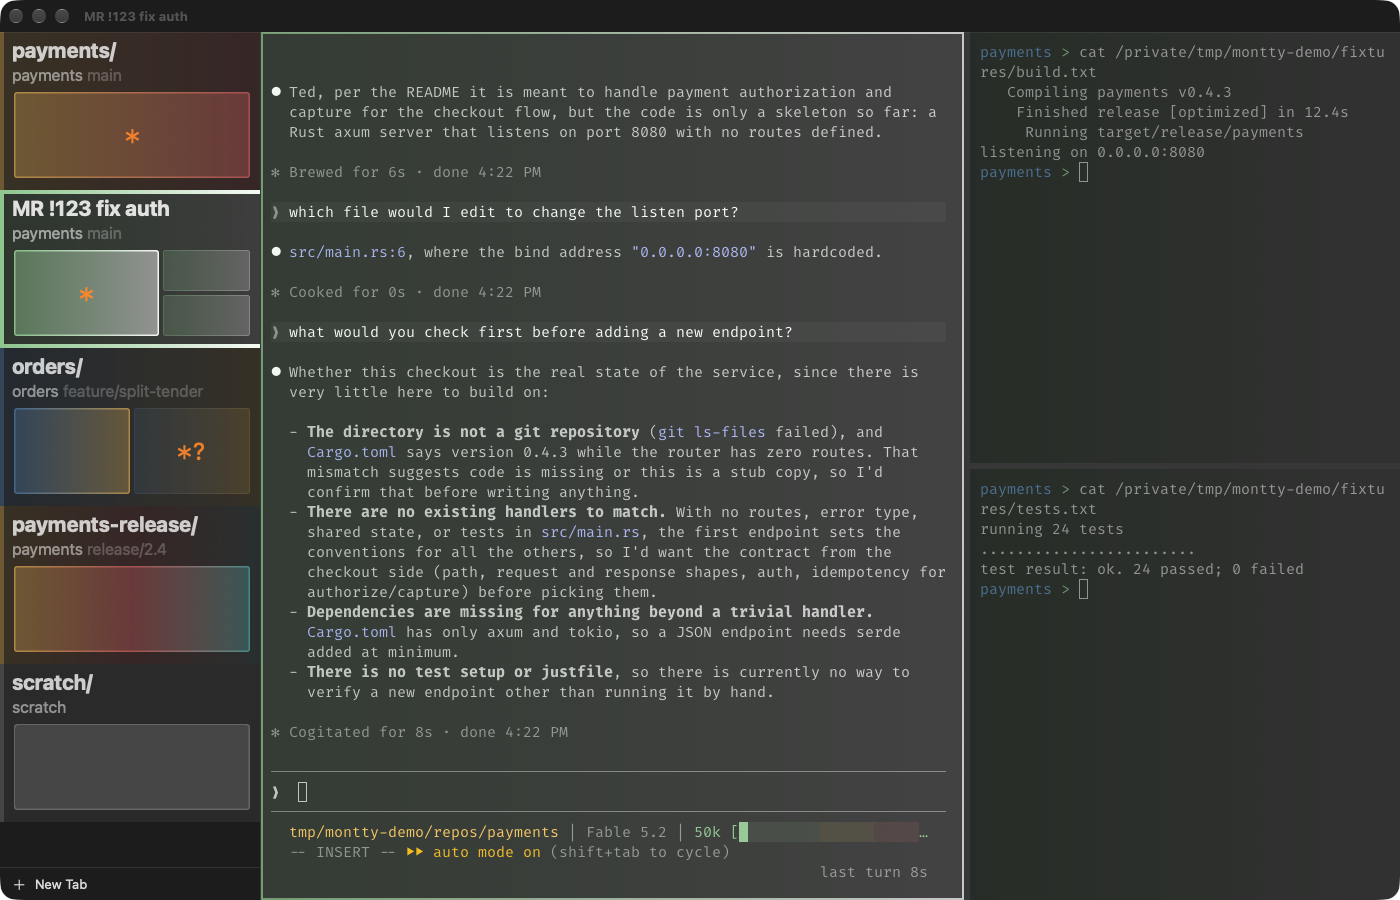
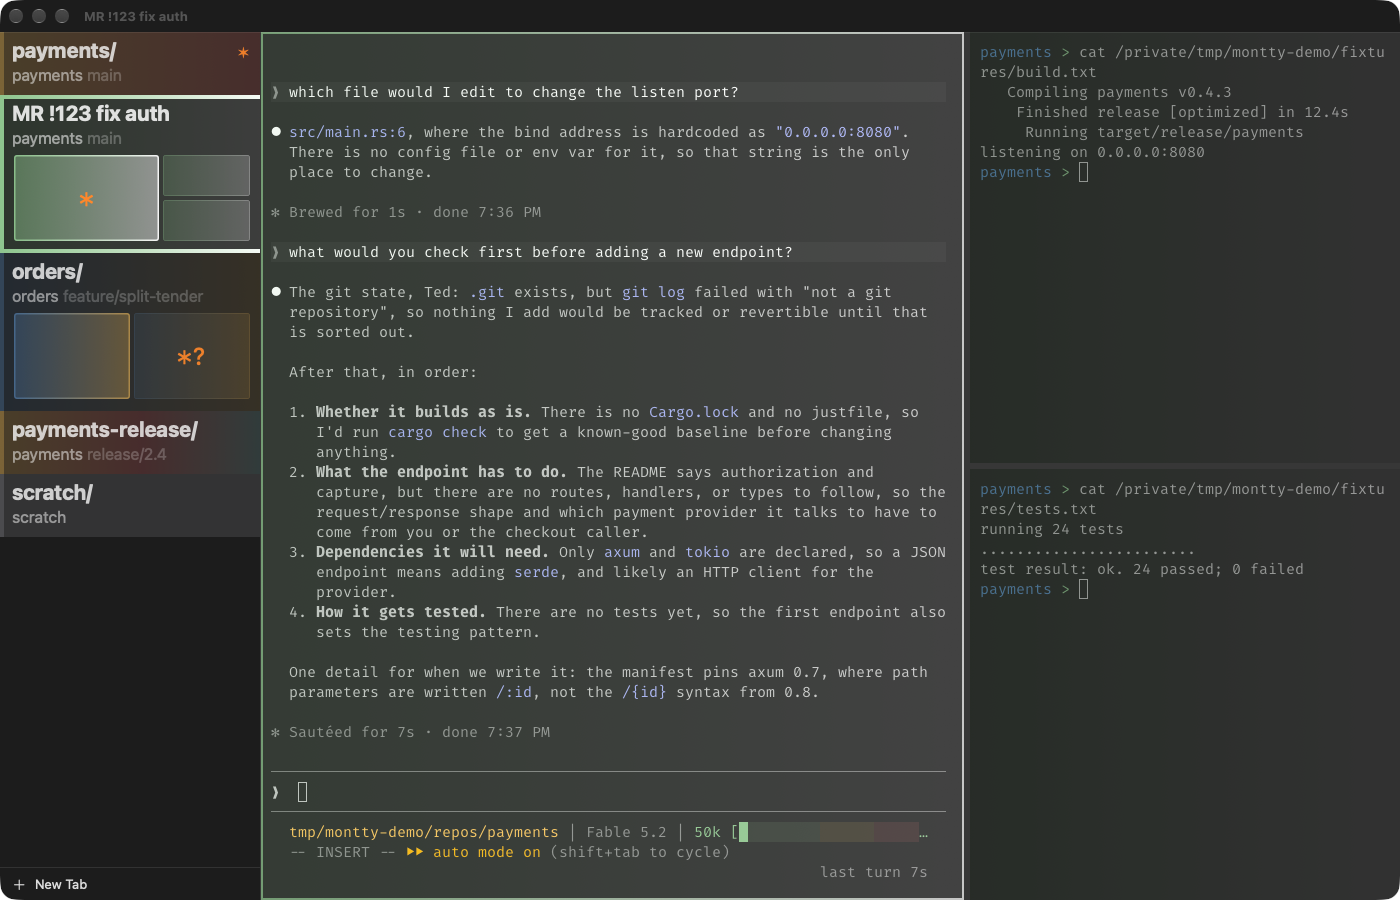
minimap-default-split Show a minimap only for split tabs by default on a fresh install, and reshoot the README screenshots to match

diff --git a/Sources/Persistence/SessionSnapshot.swift b/Sources/Persistence/SessionSnapshot.swift
@@ -9,7 +9,7 @@ struct SessionSnapshot: Codable {
     var version: Int = Self.currentVersion
     var surfaceTintEnabled: Bool = true
     var surfaceTintStrength: Double = SurfaceTintStrength.default
-    var minimapVisibility: MinimapVisibility = .always
+    var minimapVisibility: MinimapVisibility = .default
     var minimapHeight: Double = MinimapHeight.default
     var tabTintStrength: Double = TabTintStrength.default
     var windows: [WindowSnapshot] = []
@@ -24,7 +24,7 @@ struct SessionSnapshot: Codable {
     init(
         surfaceTintEnabled: Bool = true,
         surfaceTintStrength: Double = SurfaceTintStrength.default,
-        minimapVisibility: MinimapVisibility = .always,
+        minimapVisibility: MinimapVisibility = .default,
         minimapHeight: Double = MinimapHeight.default,
         tabTintStrength: Double = TabTintStrength.default,
         windows: [WindowSnapshot] = [],
@@ -61,8 +61,10 @@ struct SessionSnapshot: Codable {
             Bool.self, forKey: .surfaceTintEnabled) ?? true
         surfaceTintStrength = try container.decodeIfPresent(
             Double.self, forKey: .surfaceTintStrength) ?? SurfaceTintStrength.default
-        // A value this montty cannot read, such as a condition a later one
-        // added, falls back to the default rather than failing the session.
+        // A session saved before the setting existed showed every minimap,
+        // so it keeps doing so. A value this montty cannot read, such as a
+        // condition a later one added, gets the same rather than failing the
+        // session.
         minimapVisibility = (try? container.decodeIfPresent(
             MinimapVisibility.self, forKey: .minimapVisibility)) ?? .always
         let height = (try? container.decodeIfPresent(Double.self, forKey: .minimapHeight)) ?? nil

diff --git a/Sources/Control/CLICommands.swift b/Sources/Control/CLICommands.swift
@@ -468,7 +468,7 @@ enum MinimapSetting: SettingDefinition {
     static let discussion = """
         split shows the minimap while the tab has more than one surface.
         status shows it while a surface in the tab has an activity status.
-        With both, either one shows it. The default is always.
+        With both, either one shows it. The default is split.
         """
 
     static func set(_ text: String, at scope: SettingScope) throws -> ControlCommand {
@@ -479,7 +479,7 @@ enum MinimapSetting: SettingDefinition {
     }
 
     static func reset(at scope: SettingScope) -> ControlCommand {
-        scope == .app ? .setMinimapVisibility(.always) : .setTabMinimapVisibility(nil)
+        scope == .app ? .setMinimapVisibility(.default) : .setTabMinimapVisibility(nil)
     }
 }
 

diff --git a/Tests/MinimapVisibilityTests.swift b/Tests/MinimapVisibilityTests.swift
@@ -5,6 +5,13 @@ import Foundation
 import Testing
 
 @Suite struct MinimapVisibilityTests {
+    @Test func aFreshStartShowsMinimapsOnlyForSplitTabs() {
+        #expect(MinimapVisibility.default == .when([.split]))
+        #expect(AppSettings().minimapVisibility == .default)
+        #expect(MinimapSettings().visibility == .default)
+        #expect(SessionSnapshot().minimapVisibility == .default)
+    }
+
     private let split = MinimapVisibility.when([.split])
     private let status = MinimapVisibility.when([.status])
     private let either = MinimapVisibility.when([.split, .status])

diff --git a/Sources/App/AppDelegate.swift b/Sources/App/AppDelegate.swift
@@ -26,7 +26,7 @@ class AppDelegate: NSObject, NSApplicationDelegate, GhosttyAppDelegate, Observab
     /// Opacity of the surface tint overlay.
     @Published var surfaceTintStrength = SurfaceTintStrength.default
     /// Whether tab rows show their minimap, unless a tab overrides it.
-    @Published var minimapVisibility = MinimapVisibility.always
+    @Published var minimapVisibility = MinimapVisibility.default
     /// Height in points of a shown minimap.
     @Published var minimapHeight = MinimapHeight.default
     /// Strength of the tint wash behind each tab row.

diff --git a/Sources/Control/MinimapVisibility.swift b/Sources/Control/MinimapVisibility.swift
@@ -25,6 +25,10 @@ enum MinimapVisibility: Equatable {
     /// empty list and `toggling` turns one into `never`.
     case when(Set<MinimapCondition>)
 
+    /// What a montty with no saved session starts with, and what resetting
+    /// the app scope returns to: a minimap only for a tab that is split.
+    static let `default` = MinimapVisibility.when([.split])
+
     /// Reads the CLI and session form: `always`, `never`, or a comma-separated
     /// list of conditions in any order.
     static func parse(_ text: String) -> MinimapVisibility? {

diff --git a/Tests/ControlArgsTests.swift b/Tests/ControlArgsTests.swift
@@ -99,7 +99,7 @@ import Testing
         #expect(command(["app", "minimap", "never"]) == .setMinimapVisibility(.never))
         #expect(command(["app", "minimap", "status,split"])
             == .setMinimapVisibility(.when([.split, .status])))
-        #expect(command(["app", "minimap", "--reset"]) == .setMinimapVisibility(.always))
+        #expect(command(["app", "minimap", "--reset"]) == .setMinimapVisibility(.when([.split])))
     }
 
     @Test func parsesTheTabMinimapVisibility() {

diff --git a/Sources/Control/ControlCommand.swift b/Sources/Control/ControlCommand.swift
@@ -71,7 +71,7 @@ enum StrengthSetting: String, CaseIterable {
 struct AppSettings: Equatable {
     var surfaceTintStrength = SurfaceTintStrength.default
     var tabTintStrength = TabTintStrength.default
-    var minimapVisibility = MinimapVisibility.always
+    var minimapVisibility = MinimapVisibility.default
     var minimapHeight = MinimapHeight.default
 
     subscript(setting: StrengthSetting) -> Double {

diff --git a/Sources/Model/SessionSnapshotBuilder.swift b/Sources/Model/SessionSnapshotBuilder.swift
@@ -21,7 +21,7 @@ struct SurfaceTintSettings: Equatable {
 
 /// The app-wide minimap settings, bundled for the same reason.
 struct MinimapSettings: Equatable {
-    var visibility: MinimapVisibility = .always
+    var visibility: MinimapVisibility = .default
     var height: Double = MinimapHeight.default
 }
 

diff --git a/scripts/montty_demo.py b/scripts/montty_demo.py
@@ -176,6 +176,9 @@ def build_session() -> dict:
     return {
         "version": 4,
         "surfaceTintEnabled": True,
+        # What a fresh install starts with. A session with no value is read
+        # as "always", which is not what a new user sees.
+        "minimapVisibility": "split",
         "keyWindowID": windows[0]["windowID"],
         "repoColorOverrides": {
             path: stops if len(stops) > 1 else stops[0]
@@ -650,7 +653,7 @@ def postprocess() -> None:
     for source, target in [
         ("hero.png", "screenshot.png"),
         ("jump.png", "screenshot-easymotion.png"),
-        ("compact.png", "screenshot-compact.png"),
+        ("minimaps.png", "screenshot-minimaps.png"),
         ("cli.png", "screenshot-cli.png"),
     ]:
         image = Image.open(RAW / source)
@@ -699,11 +702,11 @@ def capture_all() -> None:
     capture(hero["id"], RAW / "window-one.png")
     capture(second_window["id"], RAW / "window-two.png")
 
-    # The same window with every minimap hidden, then shown again so the
-    # shot after this one matches the others.
-    run_montty(hero, "app", "minimap", "never")
+    # The same window with a minimap on every tab, then back to the default
+    # so the shot after this one matches the others.
+    run_montty(hero, "app", "minimap", "always")
     time.sleep(0.5)
-    capture(hero["id"], RAW / "compact.png")
+    capture(hero["id"], RAW / "minimaps.png")
     run_montty(hero, "app", "minimap", "--reset")
     time.sleep(0.5)
 

diff --git a/scripts/test_montty_demo.py b/scripts/test_montty_demo.py
@@ -16,6 +16,7 @@ class BuildSessionTest(unittest.TestCase):
 
     def test_is_version_four_with_two_windows(self):
         self.assertEqual(self.session["version"], 4)
+        self.assertEqual(self.session["minimapVisibility"], "split")
         self.assertEqual(len(self.session["windows"]), 2)
 
     def test_first_window_carries_the_five_tab_roster(self):

diff --git a/README.md b/README.md
@@ -6,13 +6,13 @@ A macOS terminal app built on [GhosttyKit](https://github.com/ghostty-org/ghostt
 
 ## Features
 
-- Vertical tab sidebar with large, scannable names, and a minimap of terminal surfaces across tabs
+- Vertical tab sidebar with large, scannable names, and a minimap of the terminal surfaces in each split tab
 - Per-tab color coding (user-assignable or auto from directory)
 - Horizontal and vertical splits within tabs
 - Session restore (tabs, splits, names, colors, focus state survive restart)
 - Claude Code sessions come back after a relaunch: each surface that was running one has `claude --resume <id>` typed at its prompt, ready to run (see [Claude Code hooks](#claude-code-hooks))
 - Click any minimap pane to jump directly to that surface
-- Minimaps that can be hidden to fit more tabs, everywhere or per tab, or shown only for tabs that are split or have an activity status, at a height you choose (see [docs/montty-cli.md](docs/montty-cli.md#minimap))
+- Minimaps shown for split tabs by default, and settable to every tab, no tab, or tabs with an activity status, for the whole app or per tab, at a height you choose (see [docs/montty-cli.md](docs/montty-cli.md#minimap))
 - Git branch and directory info in tab sidebar
 - Claude Code status indicators (working, waiting, idle) on minimap panes (see [Claude Code hooks](#claude-code-hooks))
 - Standard Ghostty theming from `~/.config/ghostty/config`
@@ -29,9 +29,9 @@ Easy Motion allows movement directly to any terminal surface across tabs:
 
 ![Montty easy motion screenshot](docs/screenshot-easymotion.png)
 
-Minimaps can be hidden to fit more tabs in the sidebar, everywhere or per tab, or shown only for tabs that are split or have an activity status. A tab without its minimap keeps its color:
+A tab shows a minimap while it is split. A tab without one keeps its color and shows its most urgent activity status beside its name. `montty app minimap always` gives every tab a minimap, and `never` hides them all; the View menu and a tab's right-click menu set the same thing:
 
-![Montty hidden minimaps screenshot](docs/screenshot-compact.png)
+![Montty screenshot with a minimap on every tab](docs/screenshot-minimaps.png)
 
 `Cmd-N` opens another window from the same process. Each window keeps its own tabs and splits; drag a tab onto another window to move it there, or out onto empty space to open it in a new window:
 

diff --git a/docs/montty-cli.md b/docs/montty-cli.md
@@ -51,7 +51,7 @@ across all windows.
 | `resume-command` | `surface` | a shell command |
 | `surface-tint-strength` | `surface`, `tab`, `repo`, `app` | 0 to 0.5, default 0.12 |
 | `tab-tint-strength` | `surface`, `tab`, `repo`, `app` | 0 to 0.3, default 0.12 |
-| `minimap` | `tab`, `app` | `always`, `never`, or conditions; default `always` |
+| `minimap` | `tab`, `app` | `always`, `never`, or conditions; default `split` |
 | `minimap-height` | `tab`, `app` | 40 to 200 points, default 90 |
 
 The rest are verbs:
@@ -257,14 +257,14 @@ A tab row shows its minimap according to a minimap visibility, `<when>`:
 
 | value | the row shows its minimap |
 |---|---|
-| `always` | always (the default) |
+| `always` | always |
 | `never` | never |
-| `split` | while the tab has more than one surface |
+| `split` | while the tab has more than one surface (the default) |
 | `status` | while any surface in the tab has an activity status, `idle` included |
 | `split,status` | while either holds |
 
 `montty app minimap` sets it for every tab in every window, and `--reset`
-returns it to `always`. `montty tab minimap` overrides it for the tab the
+returns it to `split`. `montty tab minimap` overrides it for the tab the
 command runs in, and `--reset` removes the override so the tab follows the app
 value again. The same choices are in View > Minimaps and in the tab's
 right-click menu.
